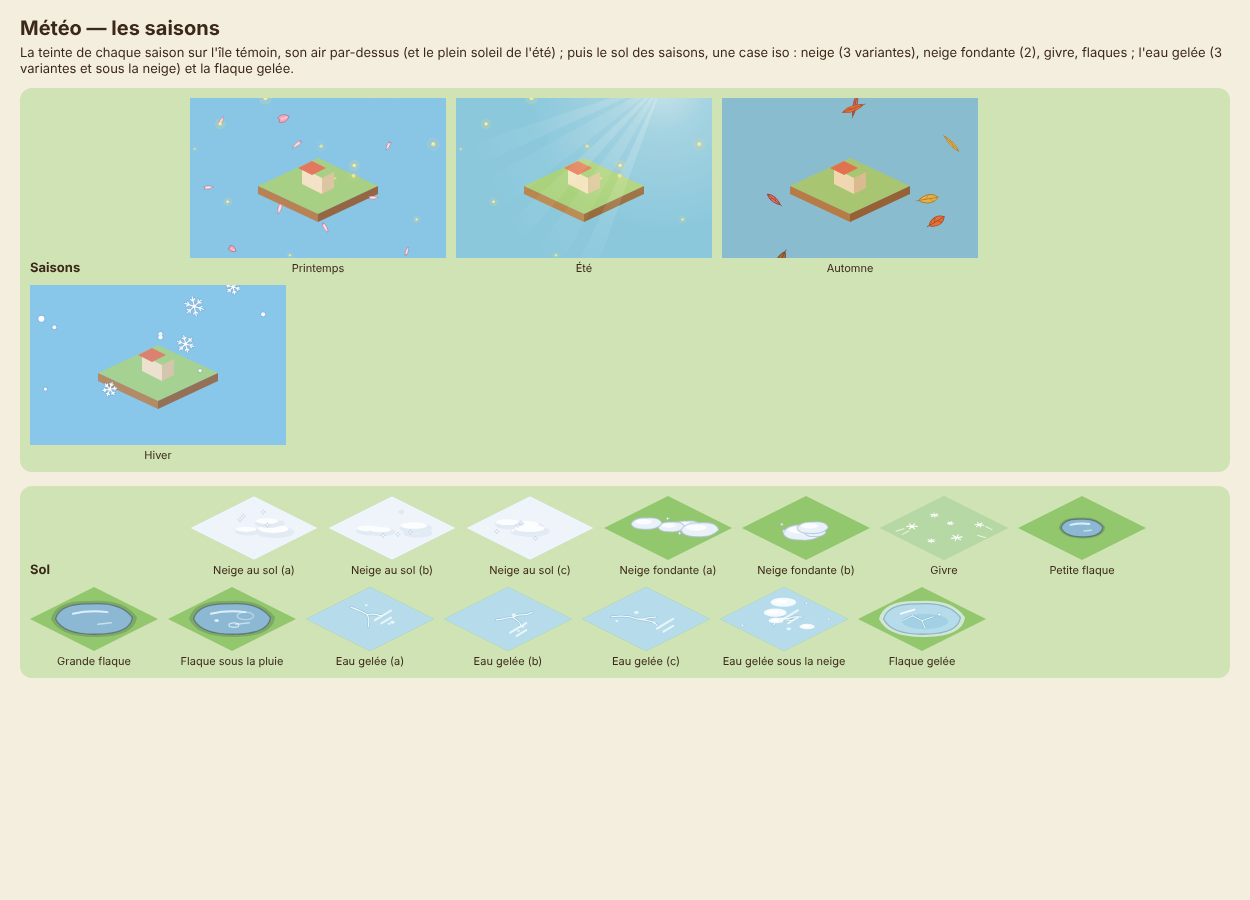
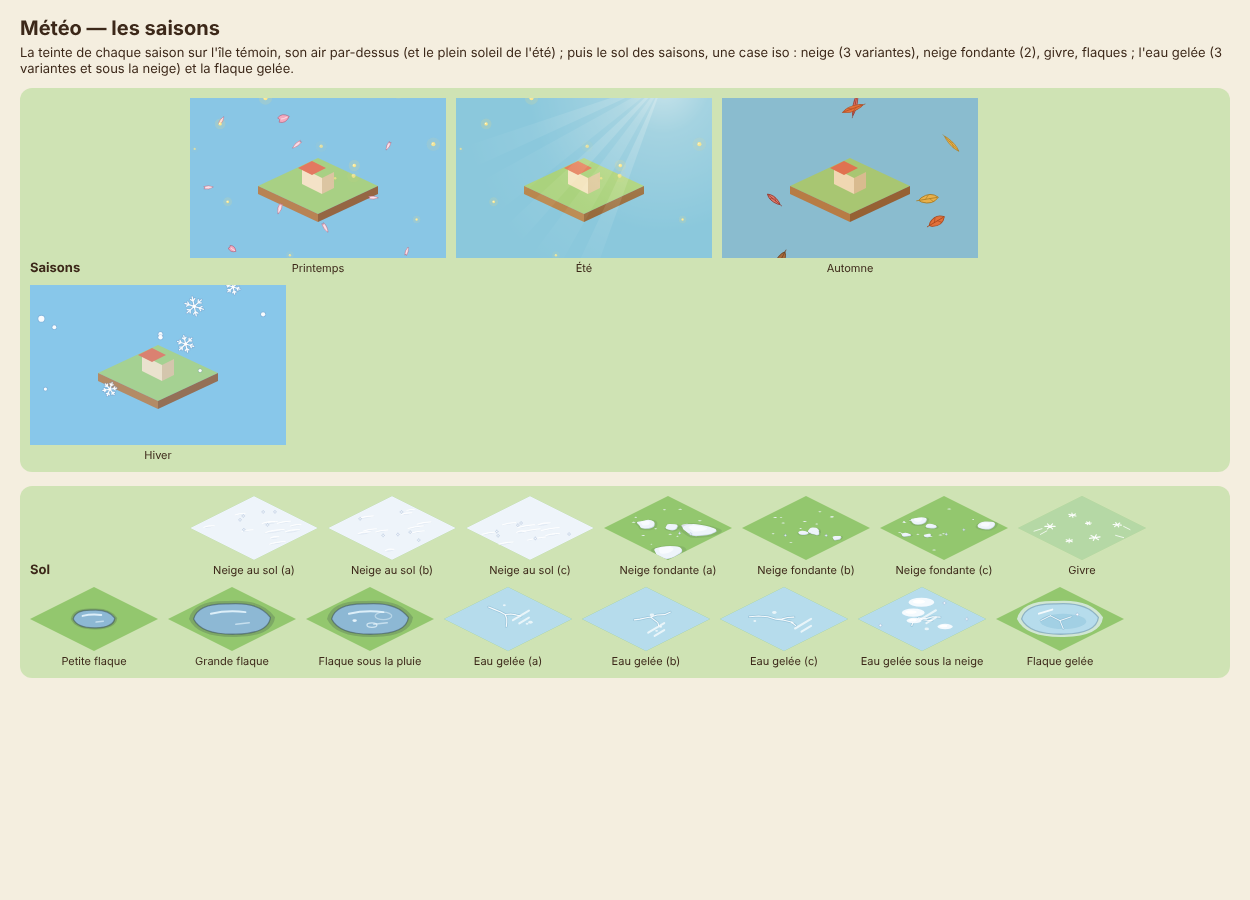
La neige au sol redessinée : un manteau sculpté par le vent, une fonte en plaques souples
Les plaques blanches répétées (des ovales au centre de chaque case) faisaient voir la grille. La neige tombée (neige_sol a, b, c) : de petites vagues de vent (sastrugi), nombreuses et douces, toutes couchées dans le même sens, réparties sur toute la case et rognées au losange, des paillettes. La neige qui fond (neige_fondante a, b et une troisième, c) : des plaques de toutes tailles aux bords souples et découpés, sans trait, le sol trempé autour, des grains épars. Bibliothèque assemblée pour la météo seulement (svg, meteo.json, planche, module du générateur).

diff --git a/design/atelier/meteo.js b/design/atelier/meteo.js
@@ -251,21 +251,59 @@ const CASE = [-40, -20, 80, 40];
 const diamond = (k = 1) => `M0,${r2(-20 * k)} L${r2(40 * k)},0 L0,${r2(20 * k)} L${r2(-40 * k)},0 Z`;
 // Points tirés dans la case (hasard déterministe), assez loin du bord pour ne pas déborder : graine g, n points
 const inCase = (g, n, m = 0.62) => { const out = []; for (let i = 0; out.length < n && i < 200; i++) { const x = (hash(g, i * 2) - 0.5) * 80, y = (hash(g, i * 2 + 1) - 0.5) * 40; if (Math.abs(x) / 40 + Math.abs(y) / 20 < m) out.push([x, y, i]); } return out; };
-// Neige au sol : la case couverte d'un manteau blanc, des creux bleutés à peine marqués, des bosses plus claires, des
-// paillettes. Le bord est uni : deux cases voisines se raccordent sans couture. Trois variantes (a, b, c) à alterner
-// d'une case à l'autre, pour que la grille ne se voie pas.
-const snowCover = g => `<path d="${diamond()}" fill="#EEF4FA"/>`
-  + inCase(g, 4, 0.55).map(([x, y, i]) => { const rx = 6 + hash(g, i + 50) * 6, ry = rx * 0.33; return E(x, y + ry * 0.2, rx, ry, '#E2EAF4', 0) + E(x - rx * 0.12, y - ry * 0.3, rx * 0.82, ry * 0.62, '#FBFDFF', 0); }).join('')
-  + inCase(g + 7, 4, 0.7).map(([x, y]) => twinkleSoft(x, y, 1.5)).join('');
+// Neige au sol : la case couverte d'un manteau blanc, sculpté par le vent. De longues vagues basses (des sastrugi),
+// toutes couchées dans le sens du vent (le même d'une case à l'autre : l'île entière se lit d'un seul souffle), leur
+// crête éclairée en haut à gauche, leur creux bleuté de l'autre côté ; un modelé à peine marqué (une bosse plus claire,
+// un creux plus froid) ; des paillettes. Rien ne touche le bord : deux cases voisines se raccordent sans couture. Trois
+// variantes (a, b, c) à alterner d'une case à l'autre, pour que la grille ne se voie pas.
+const SNOW = { fond: '#EEF4FA', clair: '#F8FBFE', creux: '#DCE6F1', ombre: '#CBD8E8', crete: '#FFFFFF' };
+// (une vague : son milieu, sa longueur, sa hauteur ; le vent la couche vers le bas à droite)
+function sastrugi(x, y, l, h) {
+  const a = -0.18, c = Math.cos(a), sn = Math.sin(a);
+  const pt = (u, v) => `${r2(x + u * c - v * sn)},${r2(y + u * sn + v * c)}`;
+  const creux = `M${pt(-l / 2, 0)} Q${pt(-l * 0.1, h * 1.1)} ${pt(l / 2, h * 0.15)} Q${pt(l * 0.05, h * 0.45)} ${pt(-l / 2, 0)} Z`;
+  const dos = `M${pt(-l / 2, 0)} Q${pt(-l * 0.15, -h * 0.9)} ${pt(l / 2, h * 0.15)} Q${pt(l * 0.1, -h * 0.15)} ${pt(-l / 2, 0)} Z`;
+  return `<path d="${creux}" fill="${SNOW.ombre}" opacity=".4"/><path d="${dos}" fill="${SNOW.clair}"/>`
+    + `<path d="M${pt(-l * 0.42, -h * 0.05)} Q${pt(-l * 0.12, -h * 0.72)} ${pt(l * 0.38, h * 0.08)}" fill="none" stroke="${SNOW.crete}" stroke-width="0.55" stroke-linecap="round"/>`;
+}
+// (rogné au losange de la case : un détail qui touche le bord s'arrête net, assez doux pour ne pas faire de couture)
+const enCase = (id, body) => `<defs><clipPath id="${id}"><path d="${diamond()}"/></clipPath></defs><g clip-path="url(#${id})">${body}</g>`;
+const snowCover = g => `<path d="${diamond()}" fill="${SNOW.fond}"/>` + enCase(`nsc${g}`,
+  // les vagues du vent, petites et nombreuses, sur toute la case (rien ne se regroupe au centre : pas de motif)
+  inCase(g, 9 + Math.floor(hash(g, 3) * 4), 0.86).map(([x, y, i]) => sastrugi(x, y, 6 + hash(g, i + 50) * 9, 0.8 + hash(g, i + 70) * 0.9)).join('')
+  + inCase(g + 7, 6, 0.85).map(([x, y]) => twinkleSoft(x, y, 1.1)).join(''));
 SPR.neige_sol_a = { group: 'sol', frame: CASE, n: 1, draw: () => snowCover(71) };
 SPR.neige_sol_b = { group: 'sol', frame: CASE, n: 1, draw: () => snowCover(72) };
 SPR.neige_sol_c = { group: 'sol', frame: CASE, n: 1, draw: () => snowCover(73) };
-// Neige fondante : des plaques de neige éparses, le sol se voit entre elles ; deux variantes
-const snowPatches = g => inCase(g, 4, 0.56).map(([x, y, i]) => { const rx = 6 + hash(g, i + 30) * 7, ry = rx * 0.42;
-  return `<path d="M${r2(x - rx)},${r2(y)} Q${r2(x - rx * 0.8)},${r2(y - ry)} ${r2(x)},${r2(y - ry * 0.9)} Q${r2(x + rx * 0.9)},${r2(y - ry * 1.1)} ${r2(x + rx)},${r2(y)} Q${r2(x + rx * 0.6)},${r2(y + ry)} ${r2(x - rx * 0.1)},${r2(y + ry * 0.85)} Q${r2(x - rx * 0.9)},${r2(y + ry * 0.9)} ${r2(x - rx)},${r2(y)} Z" fill="#EAF1F8" stroke="rgba(170,190,215,.7)" stroke-width="0.7"/>`
-    + E(x - rx * 0.2, y - ry * 0.3, rx * 0.55, ry * 0.4, '#FAFCFF', 0); }).join('') + inCase(g + 3, 2, 0.5).map(([x, y]) => twinkleSoft(x, y, 1.3)).join('');
+// Neige fondante : des plaques de neige qui se retirent, aux bords souples et découpés (ni trait ni ovale) ; autour,
+// le sol trempé par l'eau de fonte, plus sombre ; le dessus encore éclatant, un liseré gris-bleu où la neige s'affaisse ;
+// de petits grains épars. Deux variantes
+function plaque(x, y, r, g, i) {
+  const n = 9, pts = [];
+  for (let k = 0; k < n; k++) {
+    const a = (k / n) * TAU, q = 0.62 + hash(g, i * 13 + k) * 0.55;
+    pts.push([x + Math.cos(a) * r * q, y + Math.sin(a) * r * 0.42 * q]);
+  }
+  const mid = (p, q) => [(p[0] + q[0]) / 2, (p[1] + q[1]) / 2];
+  const d = (k = 1, dx = 0, dy = 0) => {
+    const P = pts.map(([px, py]) => [x + (px - x) * k + dx, y + (py - y) * k + dy]);
+    let o = `M${r2(mid(P[n - 1], P[0])[0])},${r2(mid(P[n - 1], P[0])[1])}`;
+    for (let j = 0; j < n; j++) { const m = mid(P[j], P[(j + 1) % n]); o += ` Q${r2(P[j][0])},${r2(P[j][1])} ${r2(m[0])},${r2(m[1])}`; }
+    return o + ' Z';
+  };
+  return `<path d="${d(1.3, 0.5, 0.5)}" fill="rgba(34,42,58,.1)"/>`
+    + `<path d="${d(1, 0.3, 0.4)}" fill="${SNOW.ombre}"/>`
+    + `<path d="${d()}" fill="${SNOW.fond}"/>`
+    + (r > 6 ? `<path d="${d(0.55, -r * 0.1, -r * 0.08)}" fill="${SNOW.clair}"/>` : '');
+}
+// (des plaques de toutes tailles, sur toute la case, et des grains autour)
+const snowPatches = g => enCase(`nsf${g}`,
+  inCase(g, 3 + Math.floor(hash(g, 5) * 3), 0.8).map(([x, y, i]) => plaque(x, y, 2.5 + hash(g, i + 30) * hash(g, i + 31) * 11, g, i)).join('')
+  + inCase(g + 5, 12, 0.85).map(([x, y, i]) => E(x, y, 0.5 + hash(g, i + 90) * 0.9, 0.3, SNOW.fond, 0)).join('')
+  + inCase(g + 3, 2, 0.6).map(([x, y]) => twinkleSoft(x, y, 1)).join(''));
 SPR.neige_fondante_a = { group: 'sol', frame: CASE, n: 1, draw: () => snowPatches(81) };
 SPR.neige_fondante_b = { group: 'sol', frame: CASE, n: 1, draw: () => snowPatches(82) };
+SPR.neige_fondante_c = { group: 'sol', frame: CASE, n: 1, draw: () => snowPatches(83) };
 // Givre : un voile blanc translucide sur la case, des cristaux étoilés et des aiguilles de glace
 SPR.givre = { group: 'sol', frame: CASE, n: 1, draw: () => `<path d="${diamond()}" fill="rgba(236,244,255,.38)"/>`
   + [[-20, -1, 3.2], [-6, -8, 2.4], [8, 6, 3.4], [22, -2, 2.6], [-8, 8, 2.2], [4, -3, 1.8]].map(([x, y, r], i) => {
@@ -329,7 +367,7 @@ const SAISONS = {
   printemps: { nom: 'Printemps', teinte: 'rgba(255,214,226,.1)', air: ['petales', 'pollen'], sol: ['flaque_petite', 'flaque_grande', 'flaque_pluie'] },
   ete: { nom: 'Été', teinte: 'rgba(255,228,150,.12)', air: ['pollen'], ciel: ['plein_soleil'] },
   automne: { nom: 'Automne', teinte: 'rgba(226,142,72,.14)', air: ['feuilles'], sol: ['flaque_petite', 'flaque_grande', 'flaque_pluie'] },
-  hiver: { nom: 'Hiver', teinte: 'rgba(196,216,255,.18)', air: ['flocons'], sol: ['neige_sol_a', 'neige_sol_b', 'neige_sol_c', 'neige_fondante_a', 'neige_fondante_b', 'givre', 'flaque_gelee'], eau: ['glace_a', 'glace_b', 'glace_c', 'glace_neige'] }
+  hiver: { nom: 'Hiver', teinte: 'rgba(196,216,255,.18)', air: ['flocons'], sol: ['neige_sol_a', 'neige_sol_b', 'neige_sol_c', 'neige_fondante_a', 'neige_fondante_b', 'neige_fondante_c', 'givre', 'flaque_gelee'], eau: ['glace_a', 'glace_b', 'glace_c', 'glace_neige'] }
 };
 
 /* ================= Moments du jour (sky.js) : teinte de la scène (multiplier) et mer ================= */

diff --git a/design/atelier/preview_meteo.js b/design/atelier/preview_meteo.js
@@ -41,7 +41,7 @@ for (const [id, t] of Object.entries(TILES)) {
 
 /* ---------- Sprites ---------- */
 const SPR_LABEL = { arc_en_ciel: 'Arc-en-ciel', eclair: 'Éclair', flash: 'Flash d\'orage (écran)', soleil_bas_matin: 'Soleil bas du matin (écran, screen)', soleil_bas_soir: 'Soleil bas du soir (écran, screen)', luciole: 'Luciole', halo_chaud: 'Halo chaud (fenêtres, feux)', ombre_nuage: 'Ombre de nuage', plein_soleil: 'Plein soleil d\'été (écran, screen)',
-  neige_sol_a: 'Neige au sol (a)', neige_sol_b: 'Neige au sol (b)', neige_sol_c: 'Neige au sol (c)', neige_fondante_a: 'Neige fondante (a)', neige_fondante_b: 'Neige fondante (b)', givre: 'Givre', flaque_petite: 'Petite flaque', flaque_grande: 'Grande flaque', flaque_pluie: 'Flaque sous la pluie',
+  neige_sol_a: 'Neige au sol (a)', neige_sol_b: 'Neige au sol (b)', neige_sol_c: 'Neige au sol (c)', neige_fondante_a: 'Neige fondante (a)', neige_fondante_b: 'Neige fondante (b)', neige_fondante_c: 'Neige fondante (c)', givre: 'Givre', flaque_petite: 'Petite flaque', flaque_grande: 'Grande flaque', flaque_pluie: 'Flaque sous la pluie',
   glace_a: 'Eau gelée (a)', glace_b: 'Eau gelée (b)', glace_c: 'Eau gelée (c)', glace_neige: 'Eau gelée sous la neige', flaque_gelee: 'Flaque gelée' };
 const sprCells = { nuages: [], ciel: [], lumieres: [], sol: [] }, sprBoxes = [];
 for (const [id, s] of Object.entries(SPR)) {
